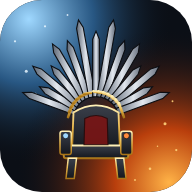
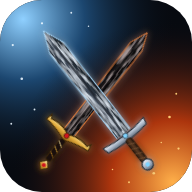
Valyria çeliği simgesi (Buz ve Blackfyre) ve tüm dillerde Native seviyesi
- Simge: çapraz Buz (Stark) ve Blackfyre (Targaryen) kılıçları, dumanlı Valyria çeliği dokusu, buz/ateş ışıltısı
- Native (ana dil) seviyesi: C2'nin üstünde 10 ünite; ücretsiz motorda İngilizce içerik, yapay zekâda tüm diller
- Native gibi konuş kursu İngilizce dışındaki dillere de uyarlanır

Claude-Session: https://claude.ai/code/session_01GtQUC7fypuBik3rPLCJVwB

diff --git a/shared/tasks.ts b/shared/tasks.ts
@@ -24,6 +24,13 @@ export interface StreamRequest {
 
 const LIMIT = 180_000; // tek istekte gönderilecek azami karakter (≈45K token)
 
+/** "Native" seviyesi modele C2'nin ötesi olarak açıklanır. */
+export function levelDesc(level?: string): string {
+  if (level === "Native")
+    return "Native (beyond C2: native-speaker level — colloquial speech, slang, idioms, regional accents, humor, fast natural speech, cultural references)";
+  return level || "A1";
+}
+
 export function clip(s: string | undefined, max = LIMIT): string {
   if (!s) return "";
   return s.length > max ? s.slice(0, max) : s;
@@ -41,7 +48,7 @@ export function buildStreamPrompt(req: StreamRequest): {
     case "tutor": {
       const history = (req.messages || []).slice(-30);
       if (!history.length || history[0].role !== "user") throw new Error("Sohbet geçmişi kullanıcı mesajıyla başlamalı");
-      const ctx = `[Learner profile] Target language: ${req.targetLang}. Native language: ${native}. CEFR level: ${req.level}. Mode: ${req.mode || "free conversation"}${req.topic ? `. Topic: ${req.topic}` : ""}.`;
+      const ctx = `[Learner profile] Target language: ${req.targetLang}. Native language: ${native}. CEFR level: ${levelDesc(req.level)}. Mode: ${req.mode || "free conversation"}${req.topic ? `. Topic: ${req.topic}` : ""}.`;
       return {
         system: P.TUTOR_SYSTEM,
         messages: history.map((m, i) =>
@@ -56,7 +63,7 @@ export function buildStreamPrompt(req: StreamRequest): {
         messages: [
           {
             role: "user",
-            content: `Write a graded story in ${req.targetLang} at CEFR level ${req.level}. Length: ${req.mode || "medium (~400 words)"}. Topic/genre: ${req.topic || "surprise me"}.`,
+            content: `Write a graded story in ${req.targetLang} at CEFR level ${levelDesc(req.level)}. Length: ${req.mode || "medium (~400 words)"}. Topic/genre: ${req.topic || "surprise me"}.`,
           },
         ],
         effort: "low",
@@ -187,7 +194,7 @@ export function buildJsonPrompt(req: JsonRequest): { system: string; content: st
   switch (req.task) {
     case "lesson":
       system = P.LESSON_SYSTEM;
-      content = `Create a lesson. Target language: ${req.targetLang}. Native language: ${native}. CEFR level: ${req.level}. Unit: ${req.topic}.${
+      content = `Create a lesson. Target language: ${req.targetLang}. Native language: ${native}. CEFR level: ${levelDesc(req.level)}. Unit: ${req.topic}.${
         req.courseFocus ? ` Course focus: ${clip(req.courseFocus, 1000)}` : ""
       } Include 10-14 vocabulary items, a 8-12 line dialogue, 8 exercises (mix of kinds) and 5 shadowing sentences.`;
       schema = Lesson;
@@ -195,7 +202,7 @@ export function buildJsonPrompt(req: JsonRequest): { system: string; content: st
       break;
     case "deck":
       system = P.DECK_SYSTEM;
-      content = `Target language: ${req.targetLang}. Native language: ${native}. CEFR level: ${req.level}. ${req.topic ? `Theme: ${req.topic}. ` : ""}Give the next ${Math.min(req.count || 20, 40)} most useful words/chunks for this level.${
+      content = `Target language: ${req.targetLang}. Native language: ${native}. CEFR level: ${levelDesc(req.level)}. ${req.topic ? `Theme: ${req.topic}. ` : ""}Give the next ${Math.min(req.count || 20, 40)} most useful words/chunks for this level.${
         req.exclude?.length ? ` The learner already knows these, do not repeat them: ${req.exclude.slice(-400).join(", ")}` : ""
       }`;
       schema = Deck;

diff --git a/src/data/courses.ts b/src/data/courses.ts
@@ -10,6 +10,7 @@ export interface Course {
   lessonLevel: string; // ders üretiminde kullanılacak CEFR
   desc: string;
   focus: string; // modele giden odak açıklaması
+  focusOther?: string; // İngilizce dışındaki diller için odak
   units: string[];
 }
 
@@ -72,9 +73,11 @@ export const COURSES: Course[] = [
     icon: "🗽",
     name: "Native gibi konuş",
     nameEn: "Native English",
-    level: "B2 → C2",
-    lessonLevel: "B2",
-    desc: "Ana dili İngilizce olanların gerçekten kullandığı dil: phrasal verb'ler, deyimler, argo, kısaltmalar (gonna, wanna), dizi ve film dili, Amerikan ve İngiliz farkları, ironi ve mizah.",
+    level: "B2 → Native",
+    lessonLevel: "Native",
+    focusOther:
+      "Native-speaker speech in the target language as actually spoken today: idioms, colloquial contractions and sound reductions, current informal slang (marked as informal; avoid offensive words), regional varieties and accents, discourse markers, humor and irony, and how natives really respond in everyday situations. Dialogue should feel like a scene from a modern TV series in that country. In the explanation, show 'textbook' vs 'how natives say it' side by side.",
+    desc: "Ana dili konuşanların gerçekten kullandığı dil: deyimler, argo, konuşmadaki kısaltmalar, dizi ve film dili, aksan farkları, ironi ve mizah. İngilizcede: gonna/wanna, phrasal verb'ler, Amerikan–İngiliz farkları.",
     focus:
       "Native-speaker English as actually spoken in the US and UK today: phrasal verbs, idioms, current informal slang (marked as informal/slang, avoid offensive words), reductions and connected speech (gonna, wanna, gotta, kinda, y'know), discourse markers, hedging, sarcasm and understatement, and the differences between American and British usage. Dialogue should feel like a scene from a modern TV series. In the explanation, show 'textbook' vs 'how natives say it' side by side.",
     units: [

diff --git a/shared/freeCore.ts b/shared/freeCore.ts
@@ -55,8 +55,8 @@ export function freeReady() {
 }
 
 // Seviyeye göre izin verilen en nadir kelime sırası
-const CAP: Record<string, number> = { A1: 800, A2: 1500, B1: 3000, B2: 6000, C1: 12000, C2: 40000 };
-const FLOOR: Record<string, number> = { A1: 0, A2: 500, B1: 1200, B2: 2500, C1: 5000, C2: 10000 };
+const CAP: Record<string, number> = { A1: 800, A2: 1500, B1: 3000, B2: 6000, C1: 12000, C2: 40000, Native: 40000 };
+const FLOOR: Record<string, number> = { A1: 0, A2: 500, B1: 1200, B2: 2500, C1: 5000, C2: 10000, Native: 10000 };
 const STOP = new Set(
   "the a an and or but to of in on at for with is are was were be been i you he she it we they me him her us them my your his its our their this that these those do does did not no yes so if as by from up out about what who how when where why which there here can will would could should just".split(
     " ",
@@ -111,8 +111,12 @@ function glossOf(word: string): string | undefined {
 
 // ---------- Ders ----------
 
+// Native seviyesi üniteleri, ana dil gibi konuşma kursunun içeriklerini kullanır
+const NATIVE_MAP = ["course:native:0", "course:native:3", "course:native:2", "course:native:5", "course:native:13", "course:native:8", "course:native:14", "course:native:7", "C1:7", "course:native:9"];
+
 export function freeLesson(unitKey: string, level: string, topic: string) {
-  const unit = FREE_UNITS[unitKey];
+  const nm = /^Native:(\d+)$/.exec(unitKey);
+  const unit = FREE_UNITS[nm ? NATIVE_MAP[Number(nm[1])] : unitKey];
   if (!unit) throw new Error("Bu ünite için ücretsiz içerik bulunamadı.");
   const seed = { s: hash(unitKey) };
   const lv = level in CAP ? level : "B1";

diff --git a/src/data/languages.ts b/src/data/languages.ts
@@ -29,7 +29,7 @@ export const NATIVE_LANGUAGES = [
   { code: "de-DE", name: "Deutsch" },
 ];
 
-export const LEVELS = ["A1", "A2", "B1", "B2", "C1", "C2"] as const;
+export const LEVELS = ["A1", "A2", "B1", "B2", "C1", "C2", "Native"] as const;
 export type Level = (typeof LEVELS)[number];
 
 export const LEVEL_INFO: Record<Level, { name: string; can: string; words: string }> = {
@@ -39,6 +39,11 @@ export const LEVEL_INFO: Record<Level, { name: string; can: string; words: strin
   B2: { name: "Orta üstü", can: "Ana dili konuşanlarla akıcı konuşur, haber ve romanların çoğunu anlar.", words: "≈4.000 kelime" },
   C1: { name: "İleri", can: "Akademik/iş ortamında esnek ve etkili kullanır, ince anlamları yakalar.", words: "≈8.000 kelime" },
   C2: { name: "Ustalık", can: "Neredeyse ana dil düzeyi: edebiyat, mizah, ima ve üslup farkları.", words: "≈16.000+ kelime" },
+  Native: {
+    name: "Ana dil (Native)",
+    can: "Ana dili konuşan biri gibi: argo, deyim, aksan, mizah, ima ve hızlı konuşmayı anlar; ortama göre tonunu değiştirir.",
+    words: "≈25.000+ kelime ve sayısız kalıp",
+  },
 };
 
 export function langByCode(code: string): Language {

diff --git a/src/data/curriculum.ts b/src/data/curriculum.ts
@@ -74,6 +74,18 @@ export const CURRICULUM: Record<Level, string[]> = {
     "Doğaçlama konuşma ve münazara",
     "Yaratıcı yazarlık",
   ],
+  Native: [
+    "Konuşma dilinde kısaltmalar ve ses düşmeleri",
+    "Argo, gençlik dili ve internet dili",
+    "Günlük deyimler ve atasözleri",
+    "Bölgesel aksanlar ve ağızlar",
+    "Mizah, ironi ve kelime oyunları",
+    "Hızlı konuşmayı anlama: dizi, podcast, sokak röportajı",
+    "Kültürel göndermeler: şarkılar, filmler, ünlü sözler",
+    "İma, nezaket ve dolaylı anlatım",
+    "Ton değiştirme: aynı şeyi beş farklı tonda söylemek",
+    "Mesajlaşma ve sosyal medya dili",
+  ],
 };
 
 export const METHOD = [

diff --git a/src/components/Lesson.tsx b/src/components/Lesson.tsx
@@ -378,7 +378,7 @@ export function Courses({ lang, initial }: { lang: string; initial?: { course: s
         level={course.lessonLevel}
         topic={course.units[open]}
         heading={`${course.icon} ${course.name} · Ders ${open + 1}`}
-        courseFocus={course.focus}
+        courseFocus={!lang.startsWith("en") && course.focusOther ? course.focusOther : course.focus}
         doneKey={`${lang}|course:${course.id}|${open}`}
         unitKey={`course:${course.id}:${open}`}
         cacheKey={`course|${lang}|${course.id}|${open}`}

diff --git a/public/sw.js b/public/sw.js
@@ -1,6 +1,6 @@
 // Lisan service worker: uygulamayı yüklenebilir yapar ve çevrimdışı çalıştırır.
 // Uygulama dosyaları, ücretsiz ders verisi ve açılan kitaplar önbelleğe alınır.
-const CACHE = "lisan-v3";
+const CACHE = "lisan-v4";
 const SCOPE = self.registration.scope;
 const CORE = ["", "index.html", "manifest.webmanifest", "icon.svg", "icon-192.png", "icon-512.png"].map((p) => SCOPE + p);
 
